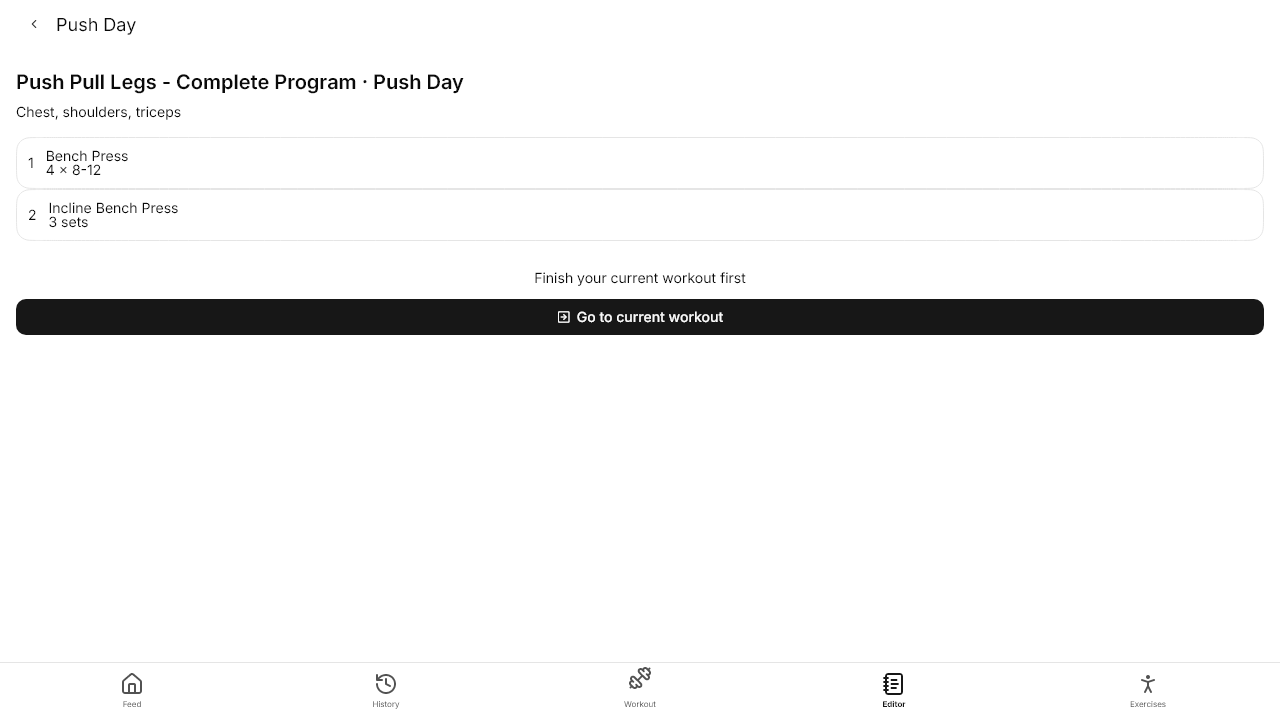
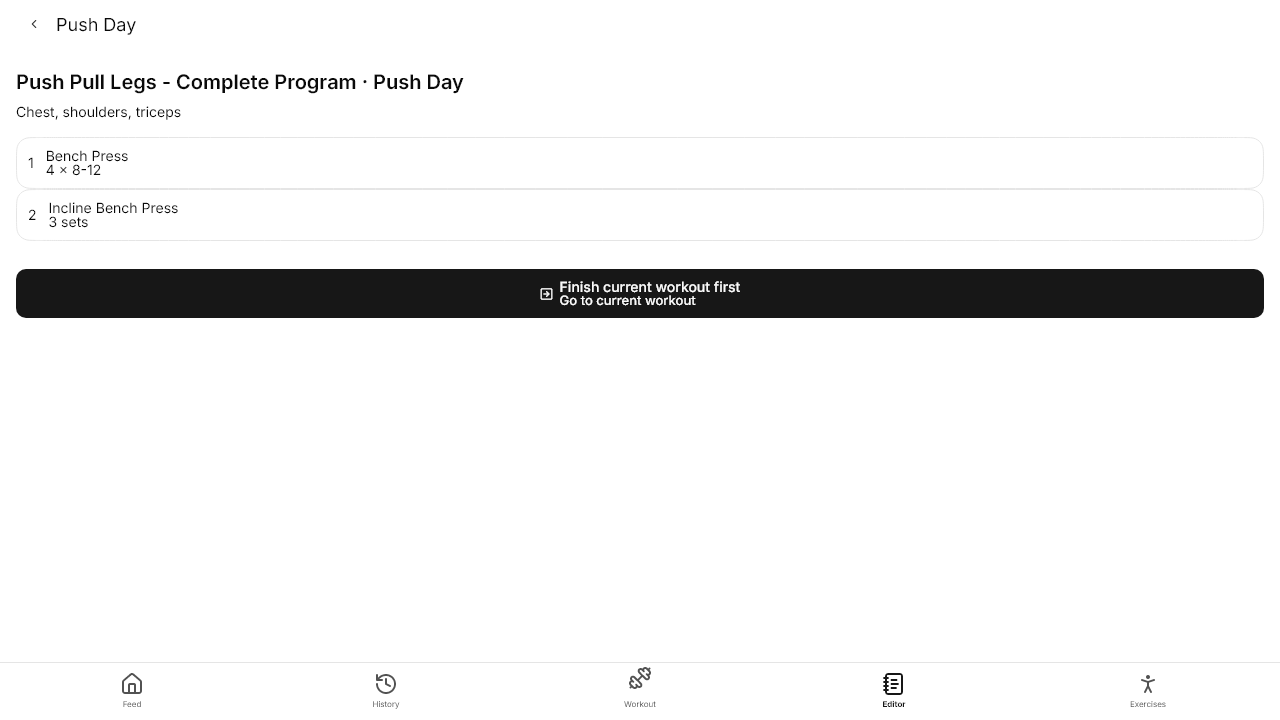
fix(ui): merge the split-day block message into a single button

Changed region(s): [[0.0, 0.3667, 1.0, 0.4889]]

diff --git a/tracker/lib/ui/workout/widgets/split_day_page.dart b/tracker/lib/ui/workout/widgets/split_day_page.dart
@@ -144,11 +144,33 @@ class _SplitDayPageState extends State<SplitDayPage> {
                 const SizedBox(height: 24),
                 // Reactive on the cubit so the button comes back the moment
                 // the active session ends (no dialog, no discard choice - the
-                // running session's logged sets must never be at risk).
+                // running session's logged sets must never be at risk). The
+                // blocked state is a single button that carries both the
+                // reason (title line) and the action (second line) - no
+                // separate message widget. Two lines because one combined
+                // line overflows at the 320px minimum window width.
                 BlocSelector<WorkoutCubit, WorkoutState, bool>(
                   selector: (state) => state.isInProgress,
                   builder: (context, isInProgress) => isInProgress
-                      ? const _ActiveSessionNotice()
+                      ? FButton(
+                          onPress: () => HomePageSingleton().changeTab(
+                            TabName.currentWorkout,
+                          ),
+                          prefix: const Icon(FLucideIcons.squareArrowRight),
+                          child: Column(
+                            mainAxisSize: MainAxisSize.min,
+                            crossAxisAlignment: CrossAxisAlignment.start,
+                            children: <Widget>[
+                              const Text('Finish current workout first'),
+                              // Inherits the button's foreground color (the
+                              // theme's body style would paint dark-on-dark).
+                              const Text(
+                                'Go to current workout',
+                                style: TextStyle(fontSize: 13),
+                              ),
+                            ],
+                          ),
+                        )
                       : FButton(
                           onPress: () => _startWorkout(context),
                           prefix: const Icon(FLucideIcons.play),
@@ -175,32 +197,5 @@ class _SplitDayPageState extends State<SplitDayPage> {
     if (item.targetSets != null) parts.add('${item.targetSets} sets');
     if (item.targetReps != null) parts.add('${item.targetReps} reps');
     return Text(parts.join(' × '));
-  }
-}
-
-/// Shown instead of the start button while a workout session is already in
-/// progress: explains why starting is blocked and offers a shortcut to the
-/// running session. No discard path - zero data-loss routes by design.
-class _ActiveSessionNotice extends StatelessWidget {
-  const _ActiveSessionNotice();
-
-  @override
-  Widget build(BuildContext context) {
-    return Column(
-      crossAxisAlignment: CrossAxisAlignment.stretch,
-      children: <Widget>[
-        Text(
-          'Finish your current workout first',
-          textAlign: TextAlign.center,
-          style: context.theme.typography.body.sm,
-        ),
-        const SizedBox(height: 12),
-        FButton(
-          onPress: () => HomePageSingleton().changeTab(TabName.currentWorkout),
-          prefix: const Icon(FLucideIcons.squareArrowRight),
-          child: const Text('Go to current workout'),
-        ),
-      ],
-    );
   }
 }
